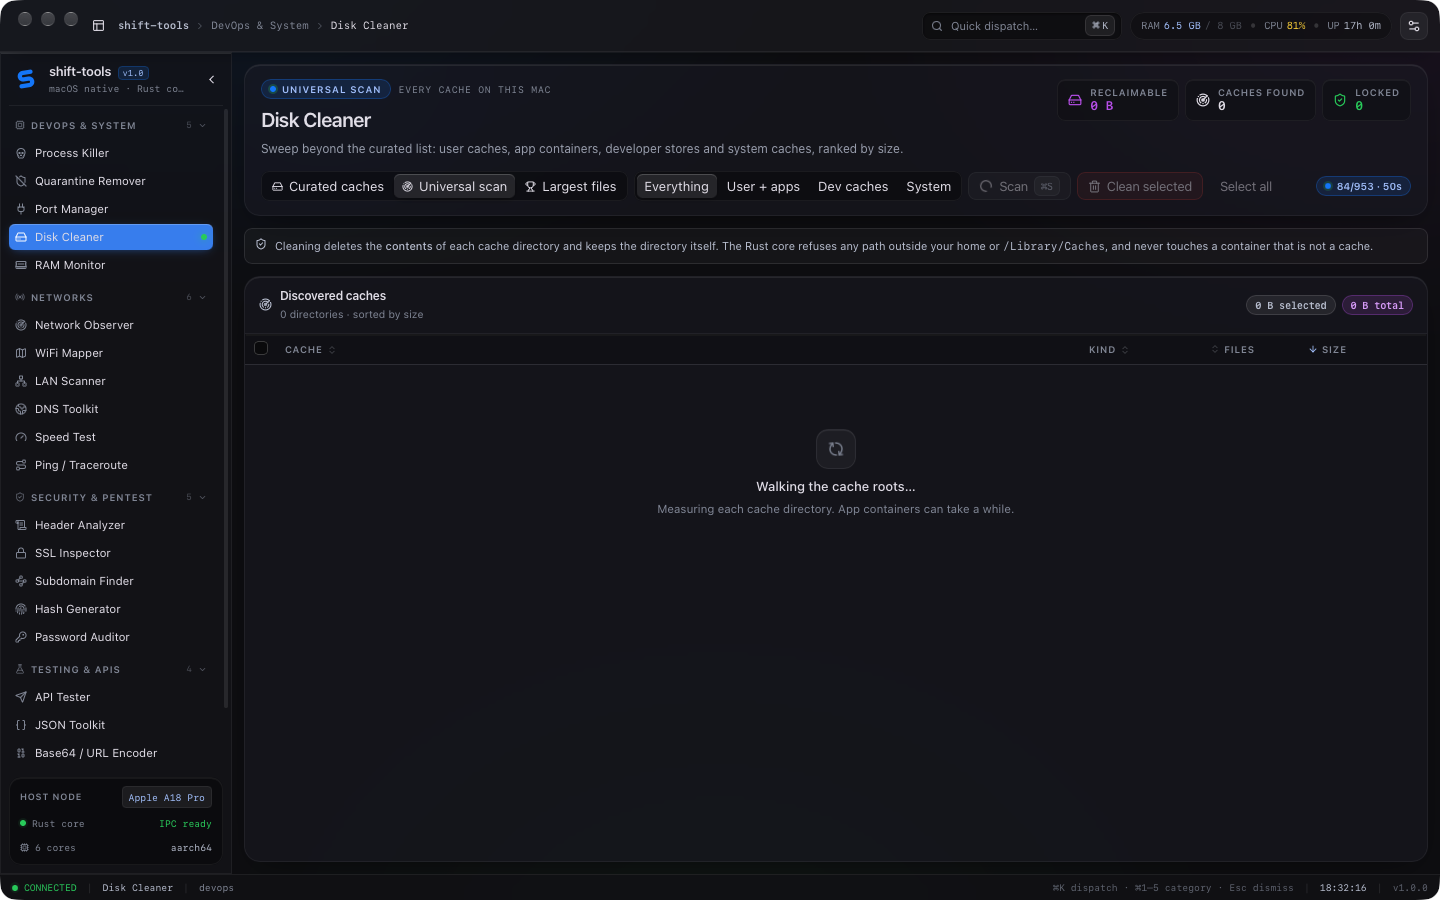
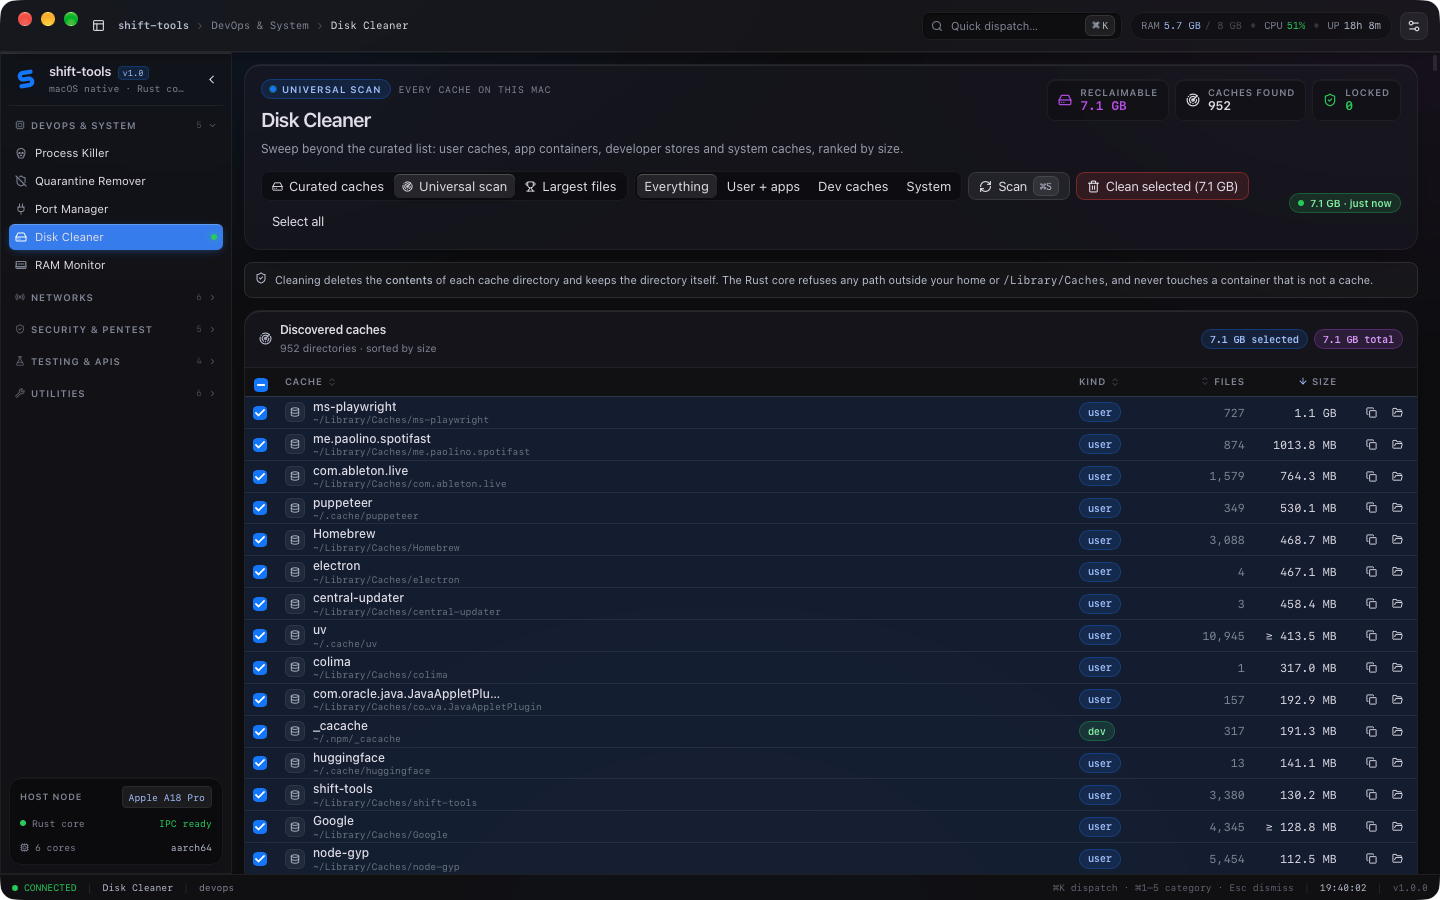
fix(disk): return partial cache results instead of hanging on one directory
A TCC-protected container can block a metadata syscall indefinitely, which
made the sweep stall at 952/953 forever: the workers were joined, so one
wedged thread held the command open. Workers are now detached and report
over a channel; the command returns when the queue drains (3 s idle) or at
a 45 s deadline, whichever comes first.

Verified against the real machine: 952 cache directories, 7.1 GB
reclaimable, completes in under 30 s.

Adds docs/screenshots with four real captures and a README gallery.

diff --git a/src-tauri/src/commands/system.rs b/src-tauri/src/commands/system.rs
@@ -1196,6 +1196,7 @@ pub struct LargeFile {
     pub kind: String,
 }
 
+#[cfg_attr(not(test), allow(dead_code))]
 fn size_and_count(path: &std::path::Path) -> (u64, u64) {
     let mut size = 0u64;
     let mut files = 0u64;
@@ -1312,6 +1313,7 @@ fn collect_cache_dirs(roots: &[String]) -> Vec<(String, String, String)> {
 pub async fn scan_caches(app: tauri::AppHandle, roots: Vec<String>) -> Result<Vec<CacheEntry>, String> {
     tauri::async_runtime::spawn_blocking(move || {
         use std::sync::atomic::{AtomicU64, Ordering};
+        use std::sync::mpsc::{channel, RecvTimeoutError};
         use std::sync::{Arc, Mutex};
         use tauri::Emitter;
 
@@ -1321,78 +1323,99 @@ pub async fn scan_caches(app: tauri::AppHandle, roots: Vec<String>) -> Result<Ve
             return Ok(Vec::new());
         }
 
-        // Measuring a cache directory is dominated by syscalls, so this is
-        // IO-bound enough that a handful of threads cut the sweep ~8x. The
-        // directory count on a busy Mac (app containers alone can be hundreds)
-        // made a single-threaded walk take minutes.
+        // Measuring cache directories is IO-bound, so a small thread pool cuts
+        // the sweep by an order of magnitude. The threads are *detached* and
+        // report over a channel: a single syscall that blocks (a TCC-protected
+        // container, a stale network mount) used to hang the whole command,
+        // because joining workers waits forever. Now the command returns what
+        // arrived before the deadline and leaves the stuck worker behind.
         let workers = std::thread::available_parallelism()
             .map(|n| n.get())
             .unwrap_or(4)
             .clamp(2, 12)
             .min(candidates.len());
         let queue = Arc::new(Mutex::new(candidates.into_iter()));
-        let out: Arc<Mutex<Vec<CacheEntry>>> = Arc::new(Mutex::new(Vec::with_capacity(total as usize)));
         let done = Arc::new(AtomicU64::new(0));
+        let (tx, rx) = channel::<(CacheEntry, u64)>();
 
-        std::thread::scope(|scope| {
-            for _ in 0..workers {
-                let queue = Arc::clone(&queue);
-                let out = Arc::clone(&out);
-                let done = Arc::clone(&done);
-                let app = app.clone();
-                scope.spawn(move || loop {
-                    let next = { queue.lock().ok().and_then(|mut q| q.next()) };
-                    let Some((path, kind, root)) = next else { break };
-                    let p = std::path::PathBuf::from(&path);
-                    let label = p
-                        .file_name()
-                        .map(|n| n.to_string_lossy().to_string())
-                        .unwrap_or_else(|| path.clone());
-                    let (size_bytes, file_count, partial) =
-                        size_and_count_bounded(&p, std::time::Duration::from_secs(2));
-                    let writable_flag = writable(&p);
-                    let scanned = done.fetch_add(1, Ordering::Relaxed) + 1;
-                    if scanned % 8 == 0 || scanned == total {
-                        let found = out.lock().map(|v| v.len()).unwrap_or(0);
+        for _ in 0..workers {
+            let queue = Arc::clone(&queue);
+            let done = Arc::clone(&done);
+            let tx = tx.clone();
+            std::thread::spawn(move || loop {
+                let next = { queue.lock().ok().and_then(|mut q| q.next()) };
+                let Some((path, kind, root)) = next else { break };
+                let p = std::path::PathBuf::from(&path);
+                let label = p
+                    .file_name()
+                    .map(|n| n.to_string_lossy().to_string())
+                    .unwrap_or_else(|| path.clone());
+                let (size_bytes, file_count, partial) =
+                    size_and_count_bounded(&p, std::time::Duration::from_millis(1200));
+                let writable_flag = writable(&p);
+                let scanned = done.fetch_add(1, Ordering::Relaxed) + 1;
+                let entry = CacheEntry {
+                    path,
+                    label,
+                    kind,
+                    size_bytes,
+                    file_count,
+                    writable: writable_flag,
+                    root,
+                    partial,
+                };
+                if tx.send((entry, scanned)).is_err() {
+                    break;
+                }
+            });
+        }
+        drop(tx);
+
+        let deadline = std::time::Instant::now() + std::time::Duration::from_secs(45);
+        let mut entries: Vec<CacheEntry> = Vec::with_capacity(total as usize);
+        let mut last_emit = std::time::Instant::now();
+        // If every worker but a wedged one has drained the queue, waiting for
+        // the deadline just makes the user stare at a finished scan.
+        let mut idle_since = std::time::Instant::now();
+        loop {
+            let remaining = deadline.saturating_duration_since(std::time::Instant::now());
+            if remaining.is_zero() {
+                break;
+            }
+            match rx.recv_timeout(remaining.min(std::time::Duration::from_millis(250))) {
+                Ok((entry, scanned)) => {
+                    if last_emit.elapsed() > std::time::Duration::from_millis(150) || scanned == total {
                         let _ = app.emit(
                             "disk-scan-progress",
                             DiskScanProgress {
                                 phase: "caches".into(),
                                 scanned,
                                 total,
-                                current: label.clone(),
-                                found,
+                                current: entry.label.clone(),
+                                found: entries.len(),
                                 done: false,
                             },
                         );
+                        last_emit = std::time::Instant::now();
                     }
-                    if let Ok(mut v) = out.lock() {
-                        v.push(CacheEntry {
-                            path,
-                            label,
-                            kind,
-                            size_bytes,
-                            file_count,
-                            writable: writable_flag,
-                            root,
-                            partial,
-                        });
+                    entries.push(entry);
+                    idle_since = std::time::Instant::now();
+                }
+                Err(RecvTimeoutError::Timeout) => {
+                    if idle_since.elapsed() > std::time::Duration::from_secs(3) {
+                        break;
                     }
-                });
+                }
+                Err(RecvTimeoutError::Disconnected) => break,
             }
-        });
+        }
 
-        let mut entries = Arc::try_unwrap(out)
-            .map_err(|_| "cache scan lost its result set".to_string())?
-            .into_inner()
-            .map_err(|e| e.to_string())?;
         entries.sort_by_key(|e| std::cmp::Reverse(e.size_bytes));
-
         let _ = app.emit(
             "disk-scan-progress",
             DiskScanProgress {
                 phase: "caches".into(),
-                scanned: total,
+                scanned: entries.len() as u64,
                 total,
                 current: String::new(),
                 found: entries.len(),
